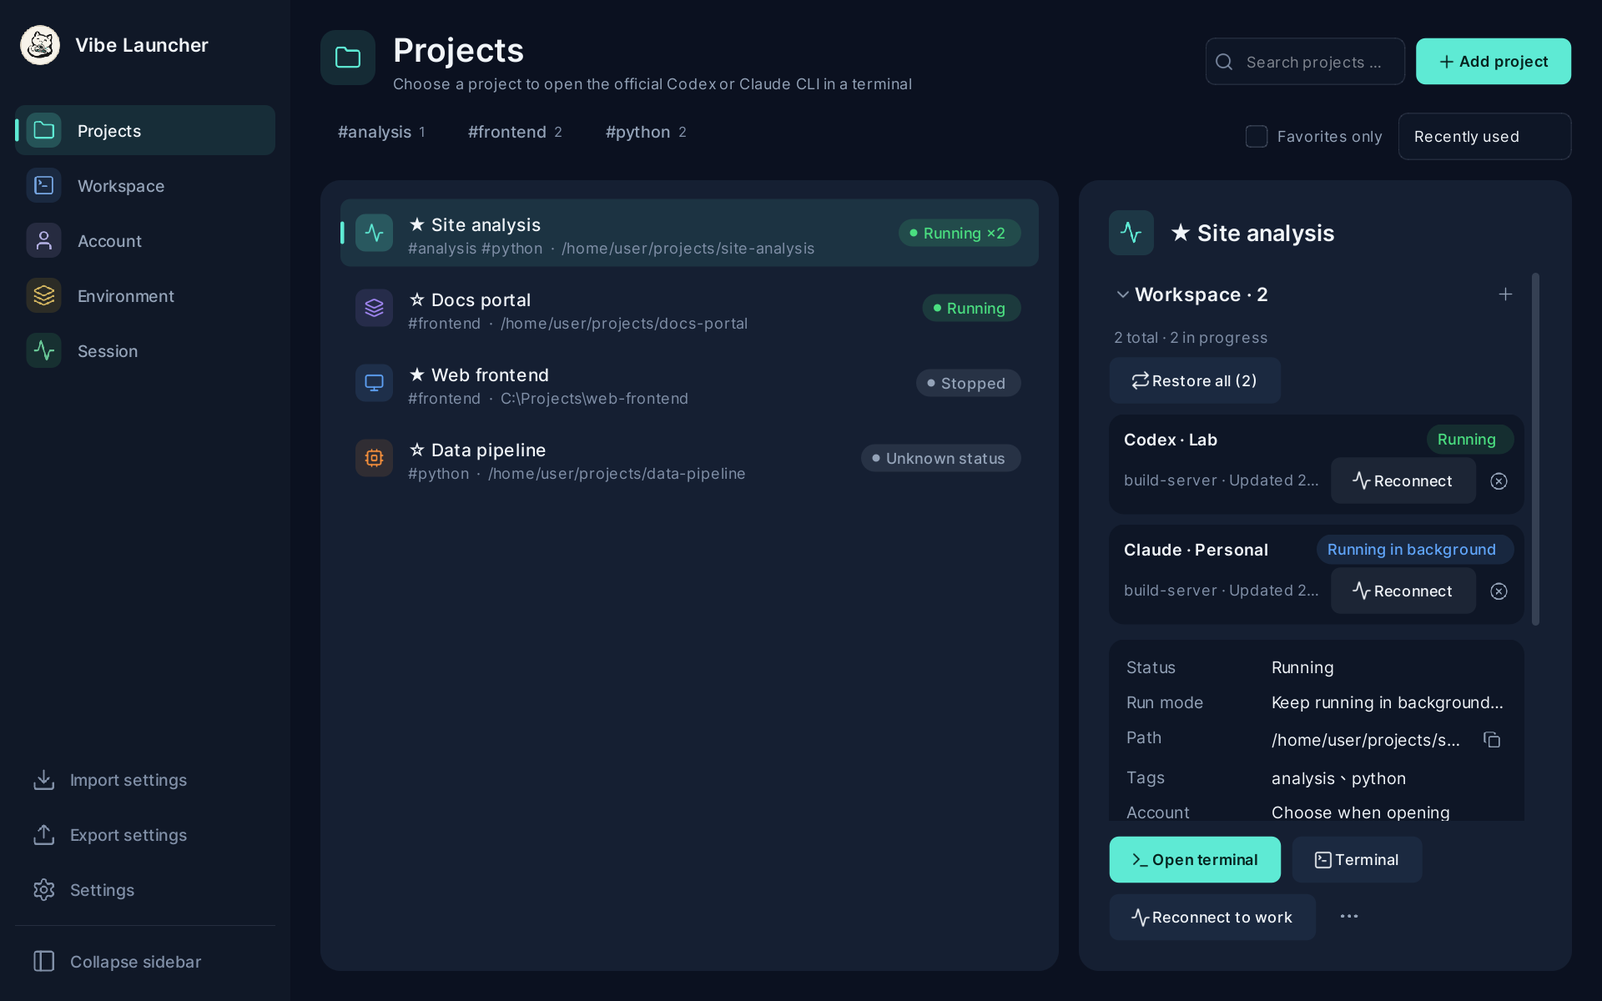
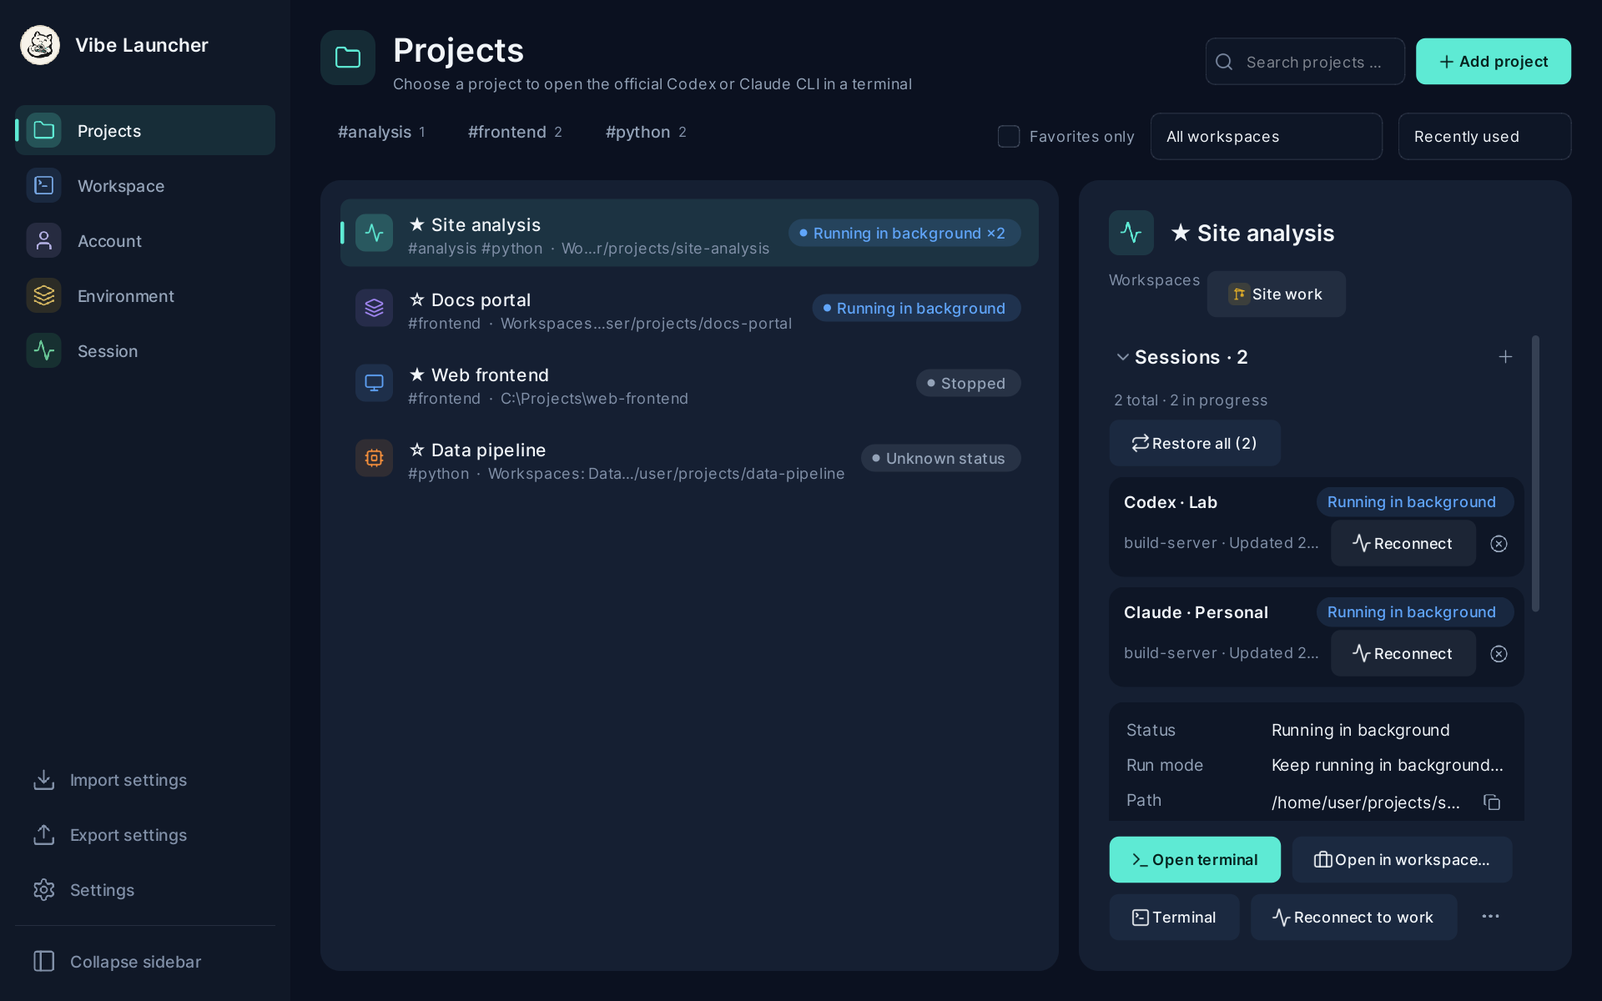
Document workspace recovery and native user data with refreshed screenshots

diff --git a/scripts/readme_screenshots.py b/scripts/readme_screenshots.py
@@ -13,6 +13,7 @@ import os
 import shutil
 import subprocess
 import sys
+import tempfile
 from datetime import datetime, timedelta, timezone
 from pathlib import Path
 
@@ -77,6 +78,11 @@ def seed(store) -> None:
     for session_id, project, account, environment, status, hours, path in sessions:
         store.save("sessions", {"id": session_id, "preset_id": project, "account_id": account, "environment_id": environment,
                                 "name": project, "path": path, "status": status, "updated_at": iso(hours), "persistent": True})
+    store.save("workspaces", {"id": "site", "name": "Site work", "layout": "grid", "slots": [
+        {"preset_id": "site-analysis", "kind": "agent", "account_id": "lab"},
+        {"preset_id": "docs-portal", "kind": "agent", "account_id": "personal"}]})
+    store.save("workspaces", {"id": "data", "name": "Data", "layout": "tabs", "slots": [
+        {"preset_id": "data-pipeline", "kind": "agent", "account_id": "lab"}]})
 
 
 def fake_terminal(tool: str):
@@ -109,9 +115,9 @@ def render(lang: str) -> list[Path]:
     from vibe_launcher.ui import MainWindow
     from vibe_launcher.workspace_page import TabInfo
 
-    data = ROOT / ".local-test" / "readme-shots" / lang
-    shutil.rmtree(data, ignore_errors=True)
-    data.mkdir(parents=True)
+    base = ROOT / ".local-test" / "readme-shots"
+    base.mkdir(parents=True, exist_ok=True)
+    data = Path(tempfile.mkdtemp(prefix=lang + "-", dir=base))   # fresh per run: an older folder may belong to another user
     icons.BRAND_DIR = data / "no-brand-icons"           # generic glyphs only: no third-party logos in the pictures
     app = QApplication.instance() or QApplication([])
     from PySide6.QtGui import QFont
@@ -127,6 +133,14 @@ def render(lang: str) -> list[Path]:
         "data-pipeline": {"kind": "glyph", "name": "cpu", "color": "#FB923C"},
     })
     window._refresh_project_icons()
+    window.prefs.workspace_icons.update({
+        "site": {"kind": "glyph", "name": "crane", "color": "#FBBF24"},
+        "data": {"kind": "glyph", "name": "database", "color": "#FB923C"},
+        "@default": {"kind": "glyph", "name": "sparkles", "color": "#60A5FA"},
+    })
+    window._render_workspace()
+    window._render_projects()
+    window._render_home()
     window.resize(*SIZE)
     window.show()
     app.processEvents()
@@ -148,6 +162,7 @@ def render(lang: str) -> list[Path]:
     shot(window, "projects")
 
     window.show_page("workspace")
+    window.workspace.switch_workspace("site", "grid")      # the saved "Site work" desktop, without starting its slots
     window.workspace.set_layout("grid")
     for index, (tool, project, account, environment) in enumerate((("codex", "Site analysis", "Lab", "build-server"),
                                                                     ("claude", "Docs portal", "Personal", "build-server"))):
@@ -167,6 +182,7 @@ def render(lang: str) -> list[Path]:
     dialog.reject()
     window.workspace.shutdown()
     window.close()
+    shutil.rmtree(data, ignore_errors=True)
     return written
 
 

diff --git a/CHANGELOG.md b/CHANGELOG.md
@@ -1,15 +1,32 @@
 # Changelog
 
 版本號唯一來源是 `pyproject.toml` 的 `version`；發佈時在 `main` 打 `v<版本>` tag（例如 `v0.2.0`）。
-每個版本一節：`## [x.y.z] - YYYY-MM-DD`，條列重點；若移除或改變既有設定（`ui-state.json`、`settings.json`、
-資料庫欄位）的意義或預設值，必須在該節的 `### 設定變更` 下逐條列出，launcher 會在更新前提醒使用者：
-
-- 移除: <key>
-- 變更: <key>（說明）
-
-只新增設定不需列出。
+每個版本一節：`## [x.y.z] - YYYY-MM-DD`，條列重點；launcher 的更新畫面會顯示該節的每一條。
+目前仍在開發階段，不保留舊版相容，設定或資料庫欄位的移除直接寫在條列中即可。
 
 ## [Unreleased]
+
+- 工作區改為可命名、可切換的多專案桌面，各自保留終端、排列與選取位置；重複切換不再新增執行工作，重複連線優先跳到既有終端。
+- 專案抽屜的個別執行紀錄改稱「工作階段」，與多專案工作區區分。
+- Codex／Claude 每次啟動自動取得本機或遠端使用者的 global skills、plugins 與對話；專案局部設定仍由官方 CLI 讀取，多帳號登入憑證維持隔離。
+- Claude plugins 依目前使用者／專案的啟用狀態載入；Codex 有原生 SQLite 索引時直接使用，支援資料庫型歷史對話。
+- 自動移除來源已刪除且未被使用者修改的舊擴充副本；對話只補齊相同內容的新增訊息，不覆蓋分歧的本機續寫。
+- 打包前清理 PyInstaller 快取，自我檢查比對執行程式與 runtime 原始檔，避免封裝混用新舊程式。
+- 修正：啟動時同步 skills／設定／對話失敗（例如 profile 內有連結、設定檔含 BOM、遠端 0644 權限）會讓 Codex／Claude 無法開啟；現在逐檔跳過並在終端提示，CLI 照常啟動，profile 內的連結不會被讀寫或刪除。
+- 啟動同步只重讀有變動的 skills 與對話，重複開啟不再每次掃過全部檔案。
+- 修正：本機終端關閉、Launcher 關閉、當機或重開機後仍顯示「執行中」；啟動時一併校正首頁、專案與工作區，PID 被系統重用時不再誤判為存活；只有本機終端時，關閉提示不再提到 tmux。
+- 每個工作區（含預設工作區）都可自訂名稱與圖示；工作區選單、命令面板與首頁都會顯示。
+- 首頁新增「工作區」卡片，顯示各工作區的專案數、開啟與執行中的終端，點一下即切換。
+- 專案頁顯示專案所屬的工作區並可直接切換，新增「開啟到工作區…」與工作區篩選；工作階段抽屜依所在工作區分組。
+- 專案的「執行中」改以工作區實際開著的終端為準，與工作區的數量一致；SSH 上沒開終端的 tmux 工作顯示為「背景執行」。
+- 「恢復」改為回到專案所在的工作區：已開著的直接切過去，否則帶回該工作區的終端（tmux 重新接回，Codex／Claude 以 `--continue`／`resume --last` 接續上次對話）。
+- 工作區在開關終端時即時保存（含預設工作區），強制關閉也不會遺失；下次啟動回到上次的工作區，按「恢復 N 個終端」一鍵帶回，不會自動啟動。本機已停止或失敗的工作階段紀錄不再保留。
+- 重啟後在工作區等待恢復的專案標示「可恢復」並走恢復流程；恢復不重複開已開著的終端，失敗的終端留待重試、不清空配置；修正重啟後停在已存工作區時預設工作區配置被清空、外部終端模式也會清空的問題；SSH 直接執行（非 tmux）的工作沒開終端時顯示「狀態不明」而非「背景執行」；Claude plugins 啟用設定只讀專案資料夾本身。
+- 首頁最近專案中「可恢復」的按鈕改為「恢復」；重新載入本機終端時，被取代的工作階段立即記為已結束。README、使用手冊與人工驗收清單同步更新（多語系介面、工作區恢復、測試指令）。
+- 開發階段不再保留舊版相容：移除資料庫遷移與唯讀模式、帳號的 `share_extensions`／`import_history`／`manual_import_notice` 欄位、版本 1 設定檔匯入、`ui-state.json`／`settings.json` 保留未知欄位的機制，以及更新前的「設定變更」提醒；資料庫中不認得的欄位在下次儲存時移除。
+- 分支規則改為 Git Flow（main 正式版、develop 與 hotfix 測試版、`feat/dev_*`／`fix_*` 只留在本機），新增 `.githooks/pre-push` 阻擋推送工作分支，CI 改為在 main／develop／hotfix 推送與 PR 到 main 時執行。
+- 終端標題列新增「重新載入」；重新載入與輸入列按 Enter 送出前會確認，可勾選「不再詢問」，並可在「設定 → 終端 → 確認通知」改回。
+- 新增介面設定：`workspace_icons`、`default_workspace_name`、`default_workspace`、`last_workspace`、`confirm_reload`、`confirm_send`（`ui-state.json`）。
 
 ## [0.1.0] - 2026-10-06
 

diff --git a/README.md b/README.md
@@ -83,25 +83,34 @@ Data lives in `%LOCALAPPDATA%\VibeLauncher` (override with `VIBE_LAUNCHER_HOME`)
 Useful keys: `Ctrl+K` command palette, `Ctrl+,` settings, `Ctrl+Tab` next terminal, `Ctrl+=` / `Ctrl+-` terminal text
 size, `Ctrl+Shift+Space` keyboard navigation. All shortcuts can be changed in **Settings → Keyboard shortcuts**.
 
-![Projects: every workspace of a project, its status, and one-click restore](docs/images/projects-en.png)
+![Projects: every session of a project, the workspaces it is in, its status, and one-click restore](docs/images/projects-en.png)
 
 ## 3. Features
 
-- **Isolated accounts**: one `CODEX_HOME` / `CLAUDE_CONFIG_DIR` per account; optional one-off import of your skills,
-  hooks, agents and conversations (copied from an allow-list, never credentials).
+- **Isolated accounts**: one `CODEX_HOME` / `CLAUDE_CONFIG_DIR` per account; automatically discover the execution
+  environment's user skills, plugins and conversations on launch, with native project discovery and isolated credentials.
 - **Local and SSH environments**: status cards (host trust, auth mode, agent, CLI versions), remote folder browser,
   optional SSH password caching in Windows Credential Manager, CLI version check and update.
-- **Projects**: tags and filters, favourites, custom project icons (glyph, picture or recoloured SVG), a drawer listing
-  every workspace a project has, and one-click **recall** (re-attach running work, reopen stopped work).
+- **Projects**: tags and filters (including by workspace), favourites, custom project icons (glyph, picture or
+  recoloured SVG), the workspaces a project is in, **Open in workspace…**, a drawer listing every session a project has
+  grouped by workspace, a **Restorable** badge after a restart, and one-click **restore** (return to the project's
+  workspace, re-attach tmux work and continue the last Codex / Claude conversation).
 - **Workspace**: xterm.js terminals in tabs or a grid, a native input bar for IME input (e.g. Chinese), quick open per
-  project, saved workspace layouts, shell / CLI profile choice, zoomable text.
+  project, named desktops containing multiple projects, each with its own name and icon (the default one too), a
+  workspace switcher that preserves running terminals, workspaces saved as you open and close terminals (a forced
+  close loses nothing; **Restore N terminals** brings them back after a restart, never automatically), a **Reload**
+  button per terminal, optional confirmation before reloading or sending from the input bar, shell / CLI profile
+  choice, zoomable text.
+- **Home**: what is running, accounts that need signing in, a card per workspace (projects, open and running
+  terminals; click to switch), recent projects (with **Restore** for the ones waiting in a workspace) and environments.
 - **Sessions**: every run with its real status (from the remote supervisor's exit code, not terminal output); bulk
   stop / clean-up, grouped by project or time.
 - **Integrations**: GitHub account and commit identity per project (official `gh`), Codex quota view,
   DeepSeek Harness Web (experimental).
 - **Customisation**: 8 colour themes and accent colours, separate interface and terminal fonts, interface scale (80–200%), English / 繁體中文 / 简体中文 / 日本語 / 한국어 / Deutsch / Español UI,
   CLI plugin manifests in `settings.json`.
-- **Safe updates**: checks git tags, backs up the database and settings, then `git pull --ff-only` + `uv sync`.
+- **Safe updates**: the installed app updates from GitHub Releases (checksum verified); a git checkout compares tags
+  and runs `git pull --ff-only` + `uv sync`. Both back up the database and settings first.
 
 <table>
   <tr>
@@ -129,7 +138,8 @@ Confirmed and not yet built:
 Choose the interface language in **Settings → General → Interface language**, then restart the launcher. English is the default. UI text is maintained in `src/vibe_launcher/locales/`: `en`, `zh-TW`, `zh-CN`, `ja`, `ko`, `de` and `es`. The translation checker validates every registered catalog's keys, format fields and HTML markup.
 
 ```powershell
-uv run --group dev pytest -q
+$env:QT_QPA_PLATFORM = "offscreen"
+uv run --group dev pytest -q --basetemp="$env:TEMP/vibe-launcher-tests" -p no:cacheprovider -o faulthandler_timeout=90
 uv run python scripts/check_translations.py
 ```
 

diff --git a/README.zh-TW.md b/README.zh-TW.md
@@ -76,18 +76,19 @@ uv run vibe-launcher
 常用按鍵：`Ctrl+K` 指令面板、`Ctrl+,` 設定、`Ctrl+Tab` 下一個終端、`Ctrl+=`／`Ctrl+-` 終端文字大小、
 `Ctrl+Shift+Space` 鍵盤導覽。所有快捷鍵都可在「設定 → 快捷鍵」修改。
 
-![專案：列出專案的每個工作區、各自狀態，並可一鍵召回](docs/images/projects-zh-TW.png)
+![專案：列出專案的每個工作階段、所屬工作區與狀態，並可一鍵還原](docs/images/projects-zh-TW.png)
 
 ## 3. 功能
 
-- **帳號隔離**：每個帳號獨立的 `CODEX_HOME`／`CLAUDE_CONFIG_DIR`；可手動匯入你的 skills、hooks、agents 與對話（依白名單複製，不含憑證）。
+- **帳號隔離**：每個帳號獨立的 `CODEX_HOME`／`CLAUDE_CONFIG_DIR`；啟動時自動取得執行環境使用者的 skills、plugins 與對話，專案局部資料由 CLI 正常讀取，登入憑證維持隔離。
 - **本機與 SSH 環境**：狀態卡片（主機信任、驗證方式、agent、CLI 版本）、遠端資料夾瀏覽、可選的 SSH 密碼快取（Windows Credential Manager）、CLI 版本檢查與更新。
-- **專案**：標籤與篩選、收藏、自訂專案圖示（內建圖示、圖片或可換色的 SVG）、列出專案所有工作區的抽屜，以及一鍵「召回」（接回還在跑的、重開已停止的）。
-- **工作區**：xterm.js 終端，分頁或並排；原生輸入列方便輸入法（中文）輸入；每個專案的快速開啟；儲存工作區排列；選擇 shell／CLI；文字可縮放。
+- **專案**：標籤與篩選（含依工作區篩選）、收藏、自訂專案圖示（內建圖示、圖片或可換色的 SVG）、顯示專案所屬的工作區、「開啟到工作區…」、依工作區分組列出專案所有工作階段的抽屜、重啟後的「可恢復」標示，以及一鍵還原（回到專案所在的工作區，tmux 工作重新接回、Codex／Claude 接續上次對話）。
+- **工作區**：xterm.js 終端，分頁或並排；原生輸入列方便輸入法（中文）輸入；每個專案的快速開啟；可命名的多專案桌面，每個工作區（含預設工作區）都有自己的名稱與圖示，切換工作區時保留終端與執行狀態；開關終端時自動保存工作區（強制關閉也不遺失，重啟後按「恢復 N 個終端」帶回，不會自動啟動）；每個終端有「重新載入」；重新載入與輸入列送出前可選擇是否確認；選擇 shell／CLI；文字可縮放。
+- **首頁**：執行中的工作、需要重新登入的帳號、每個工作區一張卡片（專案數、開啟與執行中的終端，點一下即切換）、最近專案（在工作區等待恢復的可直接「恢復」）與環境。
 - **工作階段**：每次執行的真實狀態（依遠端監督程式的結束碼，不看終端輸出）；批次停止／清理，依專案或時間分組。
 - **整合**：每個專案的 GitHub 帳號與 commit 身分（官方 `gh`）、Codex 額度查詢、DeepSeek Harness Web（實驗性）。
 - **自訂**：8 套主題與強調色、介面字型與終端機字型（可分別選擇）、介面縮放（80–200%）、英文／繁體中文／簡體中文／日文／韓文／德文／西班牙文介面、`settings.json` 的 CLI 擴充 manifest。從「設定 → 一般 → 介面語言」切換語言，重新啟動後生效。
-- **安全更新**：比對 git tag，先備份資料庫與設定，再 `git pull --ff-only` + `uv sync`。
+- **安全更新**：安裝版從 GitHub Releases 更新（核對 SHA-256）；git checkout 比對 tag 後 `git pull --ff-only` + `uv sync`。兩者都先備份資料庫與設定。
 
 <table>
   <tr>
@@ -112,7 +113,8 @@ uv run vibe-launcher
 介面文案集中在 `src/vibe_launcher/locales/`，英文 `en.json` 為主要語言；其他語系為 `zh-TW`、`zh-CN`、`ja`、`ko`、`de`、`es`。檢查工具會驗證所有已登錄語系的 key、格式參數與 HTML 標記。
 
 ```powershell
-uv run --group dev pytest -q
+$env:QT_QPA_PLATFORM = "offscreen"
+uv run --group dev pytest -q --basetemp="$env:TEMP/vibe-launcher-tests" -p no:cacheprovider -o faulthandler_timeout=90
 uv run python scripts/check_translations.py
 ```
 

diff --git a/README.zh-CN.md b/README.zh-CN.md
@@ -76,18 +76,19 @@ uv run vibe-launcher
 常用按键：`Ctrl+K` 命令面板、`Ctrl+,` 设置、`Ctrl+Tab` 下一个终端、`Ctrl+=`／`Ctrl+-` 终端文字大小、
 `Ctrl+Shift+Space` 键盘导航。所有快捷键都可在“设置 → 快捷键”中修改。
 
-![项目：列出项目的每个工作区及其状态，并可一键召回](docs/images/projects-zh-TW.png)
+![项目：列出项目的每个会话、所属工作区与状态，并可一键还原](docs/images/projects-zh-TW.png)
 
 ## 3. 功能
 
-- **账号隔离**：每个账号独立的 `CODEX_HOME`／`CLAUDE_CONFIG_DIR`；可手动导入你的 skills、hooks、agents 与对话（按白名单复制，不含凭据）。
+- **账号隔离**：每个账号独立的 `CODEX_HOME`／`CLAUDE_CONFIG_DIR`；启动时自动获取执行环境用户的 skills、plugins 与对话，项目局部数据由 CLI 正常读取，登录凭据保持隔离。
 - **本机与 SSH 环境**：状态卡片（主机信任、认证方式、agent、CLI 版本）、远程文件夹浏览、可选的 SSH 密码缓存（Windows 凭据管理器）、CLI 版本检查与更新。
-- **项目**：标签与筛选、收藏、自定义项目图标（内置图标、图片或可换色的 SVG）、列出项目所有工作区的抽屉，以及一键“召回”（重新连接仍在运行的、重新打开已停止的）。
-- **工作区**：xterm.js 终端，标签页或平铺；原生输入栏方便输入法（中文）输入；每个项目的快速打开；保存工作区布局；选择 shell／CLI；文字可缩放。
+- **项目**：标签与筛选（含按工作区筛选）、收藏、自定义项目图标（内置图标、图片或可换色的 SVG）、显示项目所属的工作区、“打开到工作区…”、按工作区分组列出项目所有会话的抽屉、重启后的“可恢复”标记，以及一键还原（回到项目所在的工作区，tmux 任务重新连接、Codex／Claude 接续上次对话）。
+- **工作区**：xterm.js 终端，标签页或平铺；原生输入栏方便输入法（中文）输入；每个项目的快速打开；可命名的多项目桌面，每个工作区（含默认工作区）都有自己的名称与图标，切换工作区时保留终端与运行状态；打开或关闭终端时自动保存工作区（强制关闭也不丢失，重启后点“恢复 N 个终端”带回，不会自动启动）；每个终端有“重新加载”；重新加载与输入栏发送前可选择是否确认；选择 shell／CLI；文字可缩放。
+- **首页**：运行中的任务、需要重新登录的账号、每个工作区一张卡片（项目数、打开与运行中的终端，点一下即切换）、最近项目（在工作区等待恢复的可直接“恢复”）与环境。
 - **会话**：每次运行的真实状态（依据远程监督进程的退出码，而不是终端输出）；批量停止／清理，可按项目或时间分组。
 - **集成**：每个项目的 GitHub 账号与 commit 身份（官方 `gh`）、Codex 额度查询、DeepSeek Harness Web（实验性）。
 - **个性化**：8 套主题与强调色、界面字体与终端字体（可分别选择）、界面缩放（80–200%）、英语／繁体中文／简体中文／日语／韩语／德语／西班牙语界面、`settings.json` 中的 CLI 扩展 manifest。在“设置 → 常规 → 界面语言”中选择语言，重启启动器后生效。
-- **安全更新**：比对 git tag，先备份数据库与设置，再执行 `git pull --ff-only` + `uv sync`。
+- **安全更新**：安装版从 GitHub Releases 更新（核对 SHA-256）；git checkout 比对 tag 后执行 `git pull --ff-only` + `uv sync`。两者都会先备份数据库与设置。
 
 <table>
   <tr>
@@ -112,7 +113,8 @@ uv run vibe-launcher
 界面文案集中维护在 `src/vibe_launcher/locales/` 目录，翻译检查器会校验各语言键值、格式占位符和 HTML 标签的一致性。
 
 ```powershell
-uv run --group dev pytest -q
+$env:QT_QPA_PLATFORM = "offscreen"
+uv run --group dev pytest -q --basetemp="$env:TEMP/vibe-launcher-tests" -p no:cacheprovider -o faulthandler_timeout=90
 uv run python scripts/check_translations.py
 ```
 

diff --git a/docs/acceptance.md b/docs/acceptance.md
@@ -28,5 +28,10 @@
 | 專案模組注入 | 專案目錄放置同名 Python 模組並啟動 launcher 子程序 | Launcher 使用隔離啟動，不載入專案中的同名模組 |
 | Credential Manager 邊界 | 啟用密碼快取並閱讀安全提示 | UI 說明期限是 App 取用政策；同一 Windows 使用者的其他程式仍可能存取該憑證 |
 | SSH 輔助工具 | 按 README 說明試用 KeePassXC 或 Tailscale（若採用） | 不要求工具自動修改 sshd、防火牆或 SSH key；撤回選配後一般 OpenSSH 流程仍可用 |
+| 工作區強制關閉 | 在預設與另一個工作區各開 Codex／Claude（本機與 SSH tmux 各一），用工作管理員結束 Launcher 後重開 | 回到上次的工作區並顯示「恢復 N 個終端」，不自動啟動；切回預設工作區也有「恢復」；專案頁與首頁標示「可恢復」 |
+| 恢復與續接對話 | 按「恢復 N 個終端」 | SSH tmux 接回同一工作；本機 Codex／Claude 接續該資料夾上次的對話（Codex 指定模型的 API 帳號也確認模型正確）；已開著的不重複開 |
+| 恢復失敗重試 | 恢復前讓某個 SSH 主機離線 | 該終端留在待恢復清單、配置不被清掉；主機恢復後再按「恢復」成功 |
+| 重新載入 | 在本機與 SSH tmux 終端各按標題列「重新載入」，確認框勾「不再詢問」 | 本機在原位置重開並接續對話；tmux 重新接回；之後不再詢問，可在「設定 → 終端 → 確認通知」改回 |
+| 輸入列送出確認 | 在輸入列打字後按 Enter，先取消再確認 | 取消時文字保留、不送出；確認後送出 |
 
 診斷僅檢查工具是否存在，不測試網路連線、付費 API 請求或帳號可用額度。你不需要在聊天提供任何密碼、key 或 OTP。
